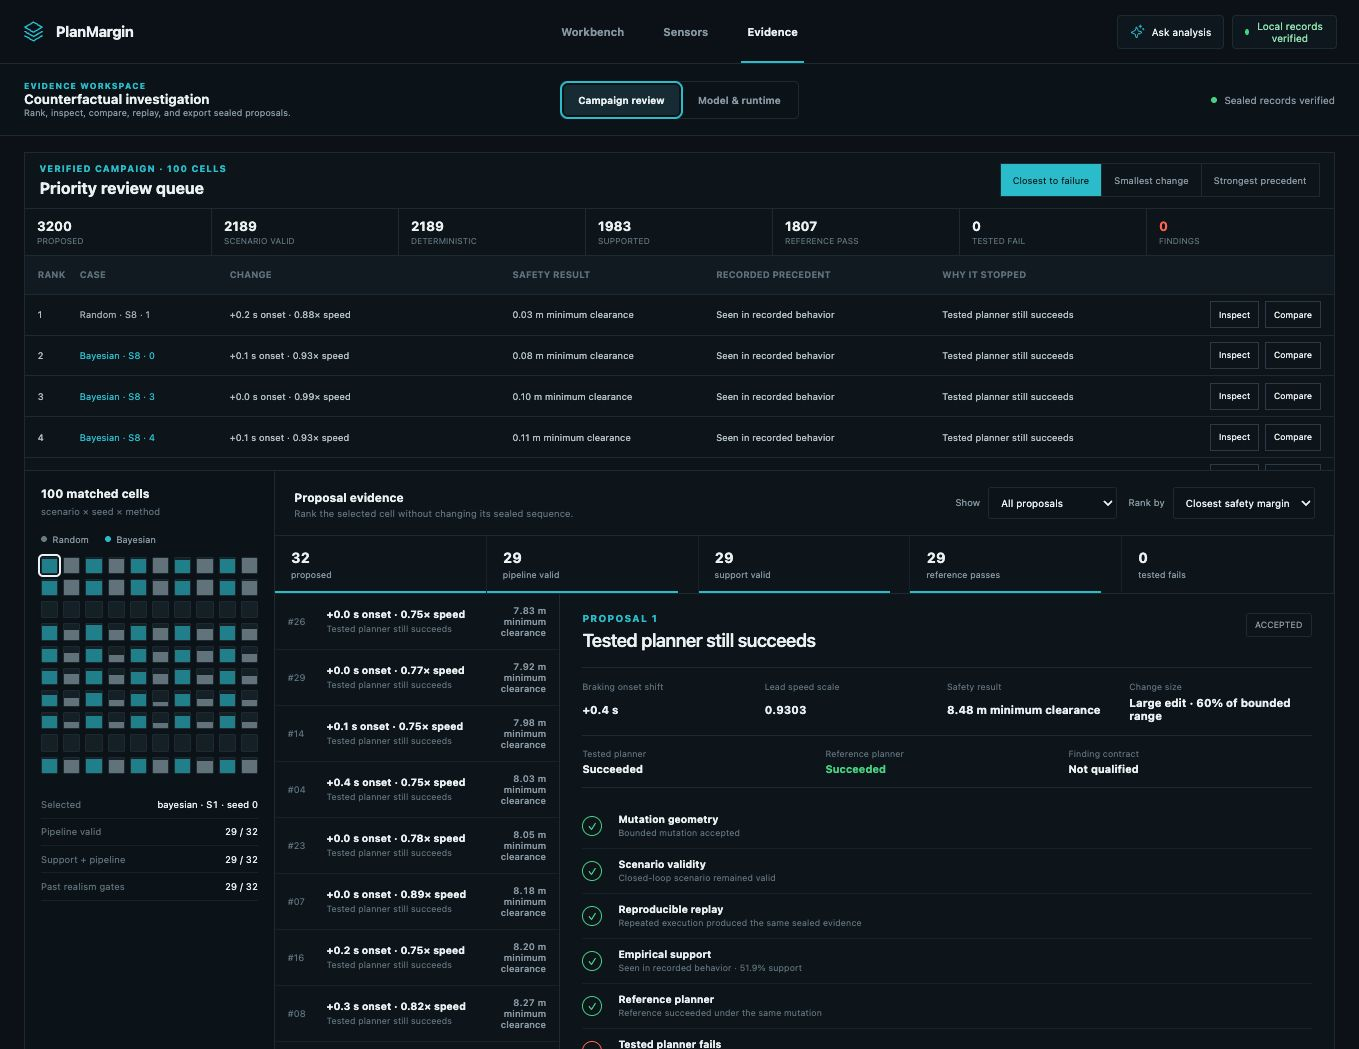
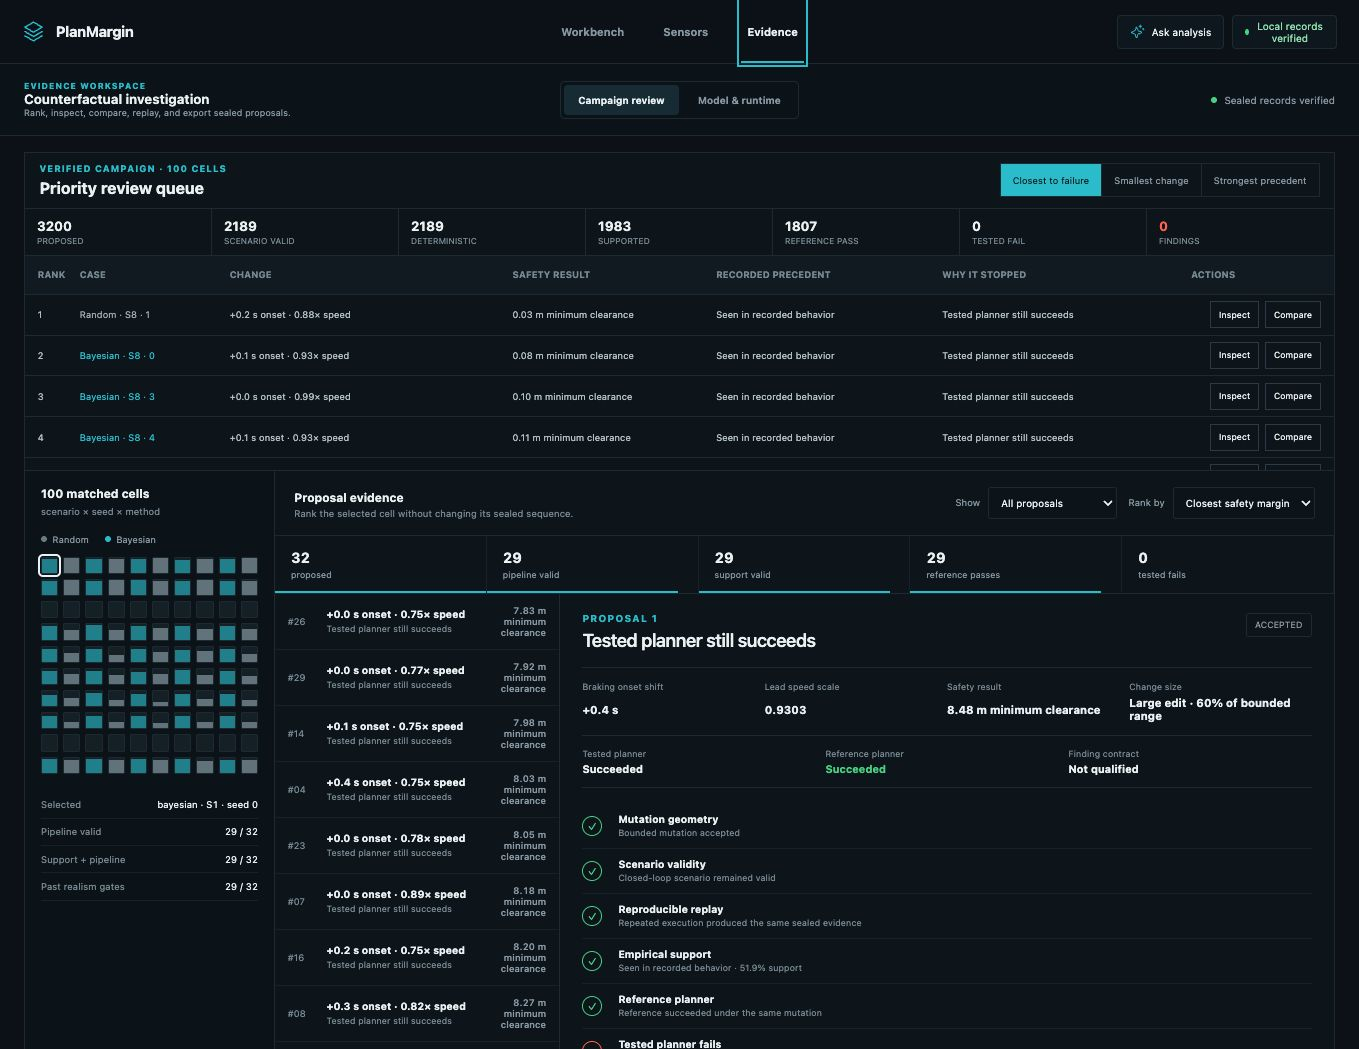
Close evidence accessibility gaps

diff --git a/web/debugger/src/app/components/product-shell.ts b/web/debugger/src/app/components/product-shell.ts
@@ -453,8 +453,12 @@ type InvestigationRank = 'closest' | 'minimal' | 'support';
                 </div>
                 <div class="campaign-table" role="table" aria-label="Campaign-ranked proposals">
                   <div class="campaign-row campaign-head" role="row">
-                    <span>Rank</span><span>Case</span><span>Change</span><span>Safety result</span
-                    ><span>Recorded precedent</span><span>Why it stopped</span><span></span>
+                    <span role="columnheader">Rank</span><span role="columnheader">Case</span
+                    ><span role="columnheader">Change</span
+                    ><span role="columnheader">Safety result</span
+                    ><span role="columnheader">Recorded precedent</span
+                    ><span role="columnheader">Why it stopped</span
+                    ><span role="columnheader">Actions</span>
                   </div>
                   @for (
                     proposal of campaignRanking();
@@ -462,17 +466,21 @@ type InvestigationRank = 'closest' | 'minimal' | 'support';
                     let index = $index
                   ) {
                     <div class="campaign-row" role="row">
-                      <span>{{ index + 1 }}</span>
-                      <span class="method" [class.bayesian]="proposal.method === 'bayesian'">
+                      <span role="cell">{{ index + 1 }}</span>
+                      <span
+                        role="cell"
+                        class="method"
+                        [class.bayesian]="proposal.method === 'bayesian'"
+                      >
                         {{ proposal.method }} · S{{ proposal.selectionOrder }} · {{ proposal.seed }}
                       </span>
-                      <span>{{ mutationNarrative(proposal) }}</span>
-                      <span>{{ proximityLabel(proposal.criticality) }}</span>
-                      <span>{{
+                      <span role="cell">{{ mutationNarrative(proposal) }}</span>
+                      <span role="cell">{{ proximityLabel(proposal.criticality) }}</span>
+                      <span role="cell">{{
                         supportLabel(proposal.empiricalSupportProbability, proposal.supportPasses)
                       }}</span>
-                      <span>{{ formatGate(proposal.decisiveGate) }}</span>
-                      <span class="row-actions">
+                      <span role="cell">{{ formatGate(proposal.decisiveGate) }}</span>
+                      <span role="cell" class="row-actions">
                         <button type="button" (click)="openCampaignProposal(proposal)">
                           Inspect
                         </button>

diff --git a/web/debugger/e2e/workbench.spec.ts b/web/debugger/e2e/workbench.spec.ts
@@ -228,6 +228,11 @@ test('local workspace supports an end-to-end evidence investigation', async ({ p
   await expect(page.getByText('Proposal-specific evidence analysis')).toBeVisible();
   await expect(page.getByText('sealed record · cccccccccccccccc')).toBeVisible();
 
+  const investigationAccessibility = await new AxeBuilder({ page })
+    .withTags(['wcag2a', 'wcag2aa'])
+    .analyze();
+  expect(investigationAccessibility.violations).toEqual([]);
+
   await page.getByRole('button', { name: 'Model & runtime' }).click();
   await expect(page.getByText('Model qualification')).toBeVisible();
   await expect(page.getByRole('heading', { name: 'Real-WOMD prediction quality' })).toBeVisible();

diff --git a/web/debugger/src/styles.scss b/web/debugger/src/styles.scss
@@ -6,7 +6,7 @@
   --rail: #08121a;
   --primary: #edf3f4;
   --secondary: #91a2ad;
-  --tertiary: #697c87;
+  --tertiary: #82939d;
   --divider: #20303a;
   --divider-soft: #172630;
   --divider-strong: #31434e;
